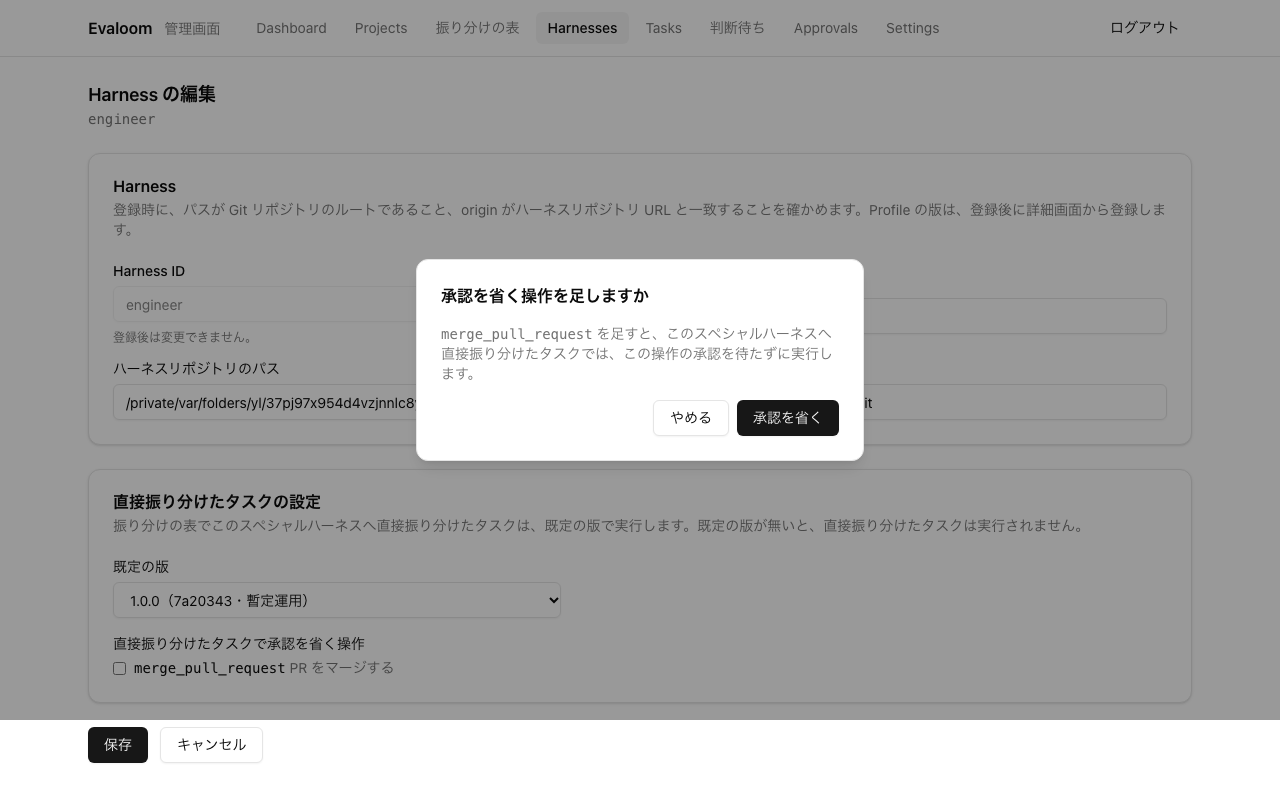
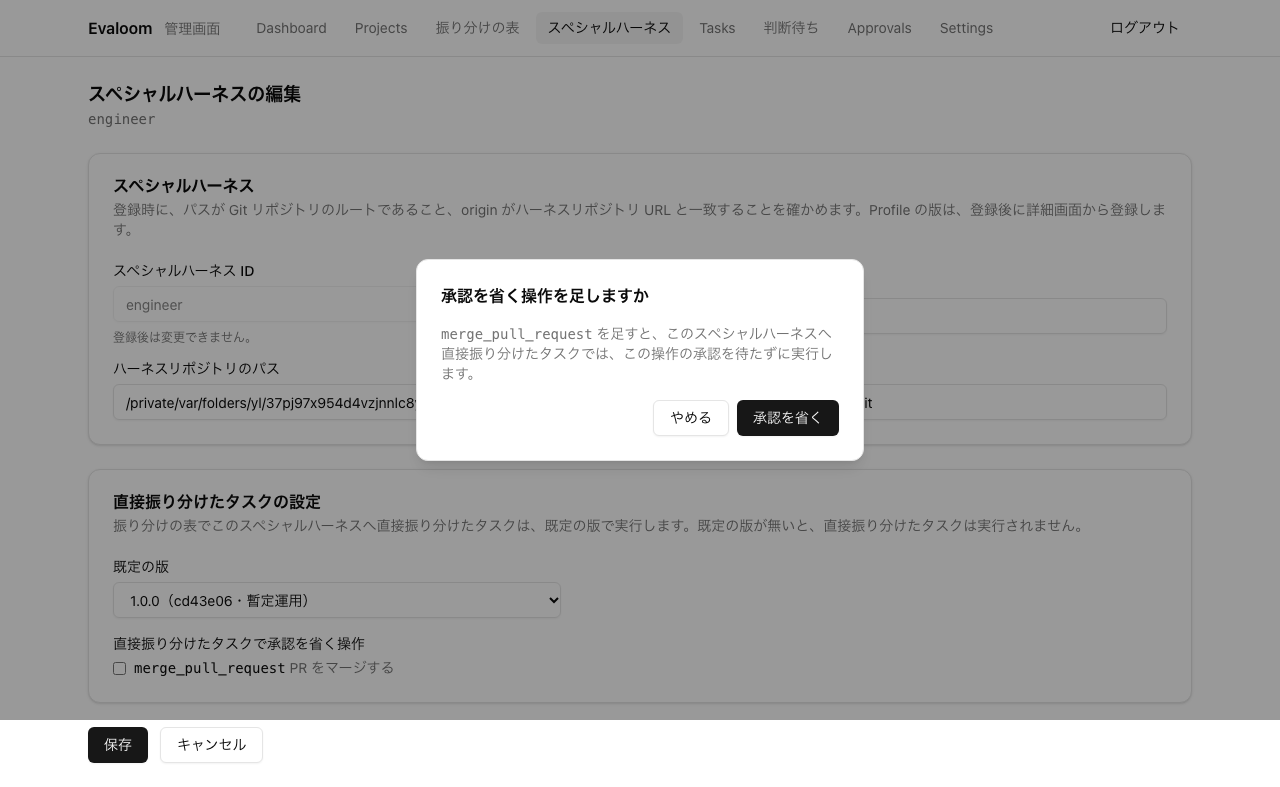
2026-11-20 本人決定の単発修正 2件 (#134)
* feat(frontend): evaloom-5n2 画面の Harness 表記をスペシャルハーネスに揃える

ナビ、一覧の題・列名・ボタン・空表示、登録・編集の見出しと項目名（スペシャルハーネス ID）、
default_harness_missing の文言を仕様 13 の 3.2・3.7 の表記に合わせた。
型名・変数名・API パス・URL は変えていない。単体テストと E2E の期待値を新表記に直した。

* task evaloom-9r9: worker 実装変更の確定（代行コミット）

---------

diff --git a/frontend/src/pages/harnesses/harness-form-page.tsx b/frontend/src/pages/harnesses/harness-form-page.tsx
@@ -96,12 +96,12 @@ function HarnessForm({ harness, profiles = [], onReload }: FormProps) {
     })
 
   return (
-    <form className="grid gap-6" noValidate onSubmit={handleSubmit} aria-label={create ? 'Harness の登録' : 'Harness の編集'}>
+    <form className="grid gap-6" noValidate onSubmit={handleSubmit} aria-label={create ? 'スペシャルハーネスの登録' : 'スペシャルハーネスの編集'}>
       <ApiErrorAlert error={error} unmatchedDetails={unmatched} onReload={reload} fieldLabels={HARNESS_REPOSITORY_LABELS} />
 
       <Card>
         <CardHeader>
-          <CardTitle>Harness</CardTitle>
+          <CardTitle>スペシャルハーネス</CardTitle>
           <CardDescription>
             登録時に、パスが Git リポジトリのルートであること、origin がハーネスリポジトリ URL と一致することを確かめます。Profile
             の版は、登録後に詳細画面から登録します。
@@ -232,7 +232,7 @@ function HarnessForm({ harness, profiles = [], onReload }: FormProps) {
 export function HarnessNewPage() {
   return (
     <div className="grid gap-6">
-      <PageTitle title="Harness の登録" />
+      <PageTitle title="スペシャルハーネスの登録" />
       <HarnessForm />
     </div>
   )
@@ -249,7 +249,7 @@ export function HarnessEditPage({ id }: { id: string }) {
   }
   return (
     <div className="grid gap-6">
-      <PageTitle title="Harness の編集" subtitle={id} />
+      <PageTitle title="スペシャルハーネスの編集" subtitle={id} />
       {error ? <ApiErrorAlert error={error} /> : null}
       {harness.data && !harness.loading && profiles.data ? (
         // 読み直したら入力欄を最新の値で作り直す。

diff --git a/frontend/src/pages/harnesses/harness-list-page.tsx b/frontend/src/pages/harnesses/harness-list-page.tsx
@@ -39,10 +39,10 @@ export function HarnessListPage() {
   return (
     <div className="grid gap-6">
       <PageTitle
-        title="Harnesses"
+        title="スペシャルハーネス"
         actions={
           <Button asChild>
-            <Link to={HARNESS_NEW_PATH}>Harness を登録</Link>
+            <Link to={HARNESS_NEW_PATH}>スペシャルハーネスを登録</Link>
           </Button>
         }
       />
@@ -52,17 +52,17 @@ export function HarnessListPage() {
       ) : harnesses.data.length === 0 ? (
         <Card>
           <CardContent className="text-muted-foreground text-sm">
-            登録済みの Harness はありません。「Harness を登録」から追加してください。
+            登録済みのスペシャルハーネスはありません。「スペシャルハーネスを登録」から追加してください。
           </CardContent>
         </Card>
       ) : (
         <div className="overflow-x-auto rounded-xl border">
           <table className="w-full text-sm">
-            <caption className="sr-only">登録済み Harness</caption>
+            <caption className="sr-only">登録済みスペシャルハーネス</caption>
             <thead className="bg-muted/50 text-left">
               <tr>
                 <th scope="col" className="px-4 py-2 font-medium whitespace-nowrap">
-                  Harness
+                  スペシャルハーネス
                 </th>
                 <th scope="col" className="px-4 py-2 font-medium whitespace-nowrap">
                   既定の版

diff --git a/frontend/src/api/errors.ts b/frontend/src/api/errors.ts
@@ -35,7 +35,7 @@ const REASON_LABELS: Record<string, string> = {
   default_profile_missing: 'このスペシャルハーネスには既定の版がありません。スペシャルハーネスの詳細画面で既定の版を設定してください',
   // 04 3.1・13 3.6: 振り分け先は Project かスペシャルハーネスのどちらか一方（400）
   exactly_one_destination: 'Project かスペシャルハーネスのどちらか一方を選んでください',
-  default_harness_missing: '既定の役割に Harness が割り当てられていません。プロジェクトの詳細画面で割り当ててください',
+  default_harness_missing: '既定の役割にスペシャルハーネスが割り当てられていません。プロジェクトの詳細画面で割り当ててください',
   // 15-linear-intake 3.8: UNIQUE(linear_team_id, linear_routing_label)（409、backend/internal/api/projects.md）
   duplicate: 'ほかのプロジェクトに同じ Linear Team ID と実行先ラベルの組が登録されています',
 }

diff --git a/frontend/e2e/evaloom-oxe.6.spec.ts b/frontend/e2e/evaloom-oxe.6.spec.ts
@@ -139,9 +139,9 @@ async function registerVersion(page: Page, version: string) {
 test('スペシャルハーネスを登録し、版の登録・409・宣言の表示・既定の版の設定ができる', async ({ page, server }) => {
   // 登録
   await page.goto('/harnesses')
-  await expect(page.getByText('登録済みの Harness はありません。')).toBeVisible()
-  await page.getByRole('link', { name: 'Harness を登録' }).click()
-  await page.getByLabel('Harness ID').fill(HARNESS)
+  await expect(page.getByText('登録済みのスペシャルハーネスはありません。')).toBeVisible()
+  await page.getByRole('link', { name: 'スペシャルハーネスを登録' }).click()
+  await page.getByLabel('スペシャルハーネス ID').fill(HARNESS)
   await page.getByLabel('名称').fill(HARNESS_NAME)
   await page.getByLabel('ハーネスリポジトリのパス').fill(server.harness.path)
   await page.getByLabel('ハーネスリポジトリ URL').fill('https://example.com/engineer.git')

diff --git a/frontend/src/pages/harnesses/harnesses.test.tsx b/frontend/src/pages/harnesses/harnesses.test.tsx
@@ -51,9 +51,9 @@ function api(harness: Harness, onPatch?: (r: Recorded) => Response) {
 }
 afterEach(() => window.history.pushState(null, '', '/'))
 
-it('Harness はリポジトリの情報だけを登録する', async () => {
+it('スペシャルハーネスはリポジトリの情報だけを登録する', async () => {
   const fake = renderAt('/harnesses/_new', (r) => (r.method === 'POST' ? json(201, HARNESS) : api(HARNESS)(r)))
-  await userEvent.type(await screen.findByLabelText('Harness ID'), 'engineer')
+  await userEvent.type(await screen.findByLabelText('スペシャルハーネス ID'), 'engineer')
   await userEvent.type(screen.getByLabelText('名称'), 'Engineer')
   await userEvent.type(screen.getByLabelText('ハーネスリポジトリのパス'), '/repos/engineer')
   await userEvent.type(screen.getByLabelText('ハーネスリポジトリ URL'), 'https://example.invalid/h.git')

diff --git a/frontend/src/App.tsx b/frontend/src/App.tsx
@@ -37,7 +37,7 @@ const NAV = [
   { to: '/', label: 'Dashboard' },
   { to: '/projects', label: 'Projects' },
   { to: ROUTES_PATH, label: '振り分けの表' },
-  { to: '/harnesses', label: 'Harnesses' },
+  { to: '/harnesses', label: 'スペシャルハーネス' },
   { to: TASKS_PATH, label: 'Tasks' },
   { to: DECISIONS_PATH, label: '判断待ち' },
   { to: APPROVALS_PATH, label: 'Approvals' },

diff --git a/frontend/src/pages/harnesses/labels.ts b/frontend/src/pages/harnesses/labels.ts
@@ -11,7 +11,7 @@ export const harnessPath = (id: string) => `/harnesses/${encodeURIComponent(id)}
 
 // Harness の各項目の表示名（13 3.2「Harness 登録・編集」、02-data-model 3.2 harnesses）。
 export const HARNESS_LABELS = {
-  id: 'Harness ID',
+  id: 'スペシャルハーネス ID',
   name: '名称',
   specialty: '専門分野',
   adapter: 'Adapter',

diff --git a/backend/internal/api/settings_limits_test.go b/backend/internal/api/settings_limits_test.go
@@ -3,6 +3,7 @@ package api
 import (
 	"encoding/json"
 	"reflect"
+	"strconv"
 	"strings"
 	"testing"
 	"time"
@@ -86,7 +87,7 @@ func TestSettingsLimitsAndApprovalPatchStoresAndAudits(t *testing.T) {
 	}
 }
 
-// A value of the wrong type, a non-positive number, a missing or unknown
+// A value of the wrong type, an out-of-range number, a missing or unknown
 // stage, or null is 400, and nothing of the request (other keys included)
 // is written.
 func TestSettingsLimitsAndApprovalRejectInvalidValues(t *testing.T) {
@@ -111,6 +112,7 @@ func TestSettingsLimitsAndApprovalRejectInvalidValues(t *testing.T) {
 		{"ttl bool", map[string]any{"approval": map[string]any{"ttlSec": true}}, "approval.ttlSec", "invalid"},
 		{"ttl zero", map[string]any{"approval": map[string]any{"ttlSec": 0}}, "approval.ttlSec", "out_of_range"},
 		{"ttl negative", map[string]any{"approval": map[string]any{"ttlSec": -1}}, "approval.ttlSec", "out_of_range"},
+		{"ttl below minimum", map[string]any{"approval": map[string]any{"ttlSec": 59}}, "approval.ttlSec", "out_of_range"},
 		{"ttl null", map[string]any{"approval": map[string]any{"ttlSec": nil}}, "approval.ttlSec", "required"},
 		{"approval unknown key", map[string]any{"approval": map[string]any{"ttl": 600}}, "body", "invalid_json"},
 		{"approval not object", map[string]any{"approval": 600}, "approval", "invalid"},
@@ -134,6 +136,48 @@ func TestSettingsLimitsAndApprovalRejectInvalidValues(t *testing.T) {
 			requireProjectError(t, status, response, 400, ValidationFailed, test.field, test.reason)
 			if got := readSettingsState(t, f.db); len(got.rows) != 0 || len(got.audits) != 0 {
 				t.Fatalf("rejected PATCH wrote %+v", got)
+			}
+		})
+	}
+}
+
+// Q200 also applies to the default TTL (owner decision 2026-11-20).
+// Rejecting a mixed PATCH preserves existing settings and audit rows;
+// 60 seconds and larger integers retain the existing storage range.
+func TestSettingsApprovalTTLMinimum(t *testing.T) {
+	for _, ttl := range []int64{59, 60, 61, 9223372036854775807} {
+		t.Run(strconv.FormatInt(ttl, 10), func(t *testing.T) {
+			f := newAuthFixture(t)
+			status, body := projectRequest(t, f, "PATCH", "/api/settings", map[string]any{
+				"approval": map[string]any{"ttlSec": 600},
+			})
+			if status != 200 {
+				t.Fatalf("seed PATCH status=%d body=%s", status, body)
+			}
+			want := readSettingsState(t, f.db)
+			status, body = projectRequest(t, f, "PATCH", "/api/settings", map[string]any{
+				"linear":   map[string]any{"triggerLabel": "go"},
+				"approval": map[string]any{"ttlSec": ttl},
+			})
+			if ttl < 60 {
+				requireProjectError(t, status, body, 400, ValidationFailed, "approval.ttlSec", "out_of_range")
+			} else {
+				if status != 200 {
+					t.Fatalf("PATCH status=%d body=%s", status, body)
+				}
+				encoded := strconv.FormatInt(ttl, 10)
+				want.rows["approval.ttlSec"] = encoded
+				want.rows["linear.triggerLabel"] = `"go"`
+				want.audits = append(want.audits,
+					`owner settings linear.triggerLabel {"after":"go","before":"ai-ready"}`,
+					`owner settings approval.ttlSec {"after":`+encoded+`,"before":600}`)
+				getStatus, response := getJSON(t, f, "/api/settings")
+				if getStatus != 200 || !strings.Contains(string(response), `"ttlSec":`+encoded+`}`) {
+					t.Fatalf("GET status=%d body=%s", getStatus, response)
+				}
+			}
+			if got := readSettingsState(t, f.db); !reflect.DeepEqual(got, want) {
+				t.Fatalf("state = %+v; want %+v", got, want)
 			}
 		})
 	}

diff --git a/backend/internal/api/linear.go b/backend/internal/api/linear.go
@@ -184,6 +184,11 @@ func decodeSettingsPatch(body map[string]json.RawMessage) (linearintake.Settings
 				if err != nil {
 					return changes, err
 				}
+				// Q200's minimum also applies to the default TTL (owner
+				// decision 2026-11-20). Validate before storing any key.
+				if ttl < 60 {
+					return changes, invalid("approval.ttlSec", "out_of_range")
+				}
 				changes.ApprovalTTLSec = &ttl
 			}
 		default:
